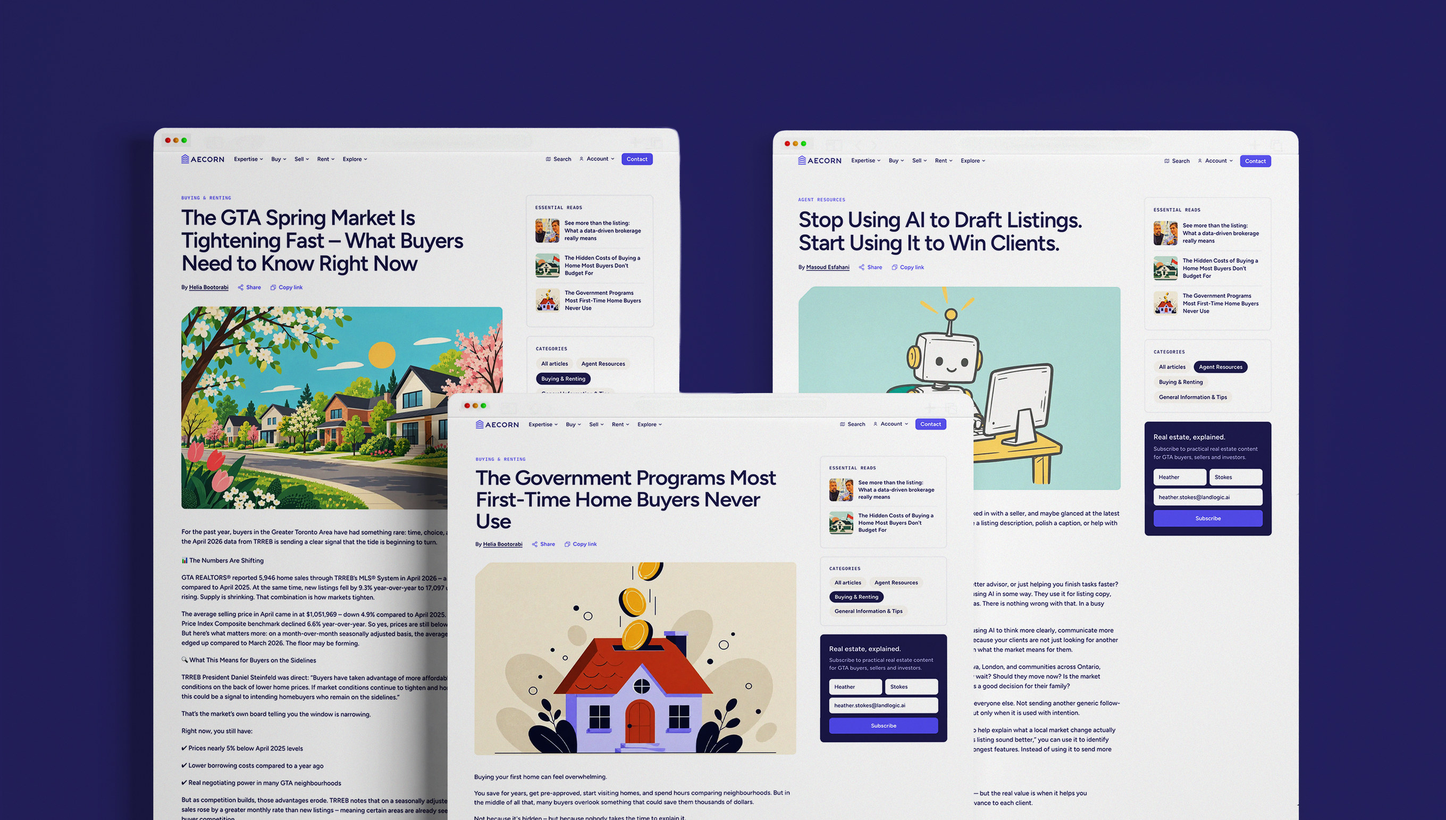
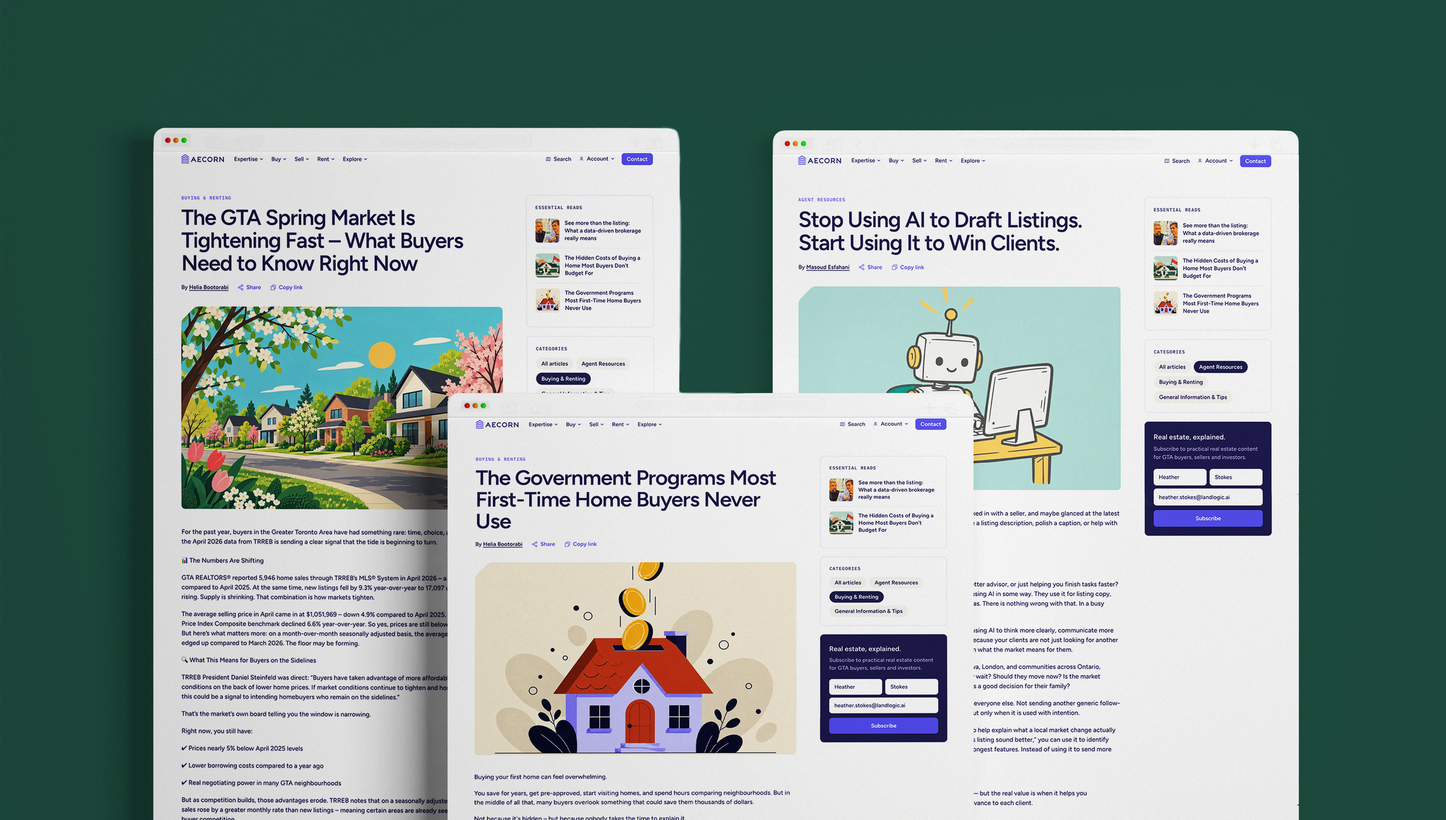
AECORN draft: blogs mockup on forest

diff --git a/design/Project - AECORN Realty.dc.html b/design/Project - AECORN Realty.dc.html
@@ -299,7 +299,7 @@
     <div style="grid-column:{{ col.span4 }};position:relative;aspect-ratio:{{ col.ar4 }};"><img src="img/aecorn-blog-phone.jpg" alt="AECORN website consultation page with a watercolour illustration on a phone held in two hands" style="position:absolute;inset:0;display:block;width:100%;height:100%;object-fit:cover;"></div>
   </div>
 
-  <img src="img/aecorn-blog-pages.jpg" alt="Three AECORN blog article pages with different illustration styles on ink" style="display:block;width:100%;height:auto;margin-top:24px;">
+  <img src="img/aecorn-blog-pages.jpg" alt="Three AECORN blog article pages with different illustration styles on forest green" style="display:block;width:100%;height:auto;margin-top:24px;">
 
   <div style="display:grid;grid-template-columns:repeat(12,minmax(0,1fr));gap:24px;padding:{{ col.secPad }};">
     <div style="grid-column:1 / span 4;grid-row:1;display:{{ col.scopeDisp }};flex-direction:column;gap:2px;">
